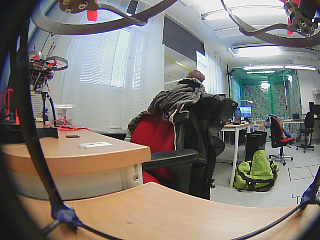
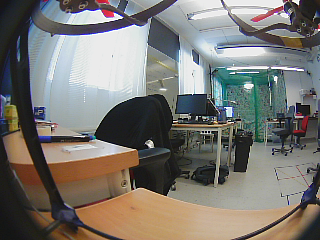
Removed black part from images

diff --git a/interface/interface_image_view/src/interface_image_view_node.cpp b/interface/interface_image_view/src/interface_image_view_node.cpp
@@ -108,6 +108,144 @@ void putMarkers(cv::Mat * image, float look_direction, float fov)
     }
 }
 
+// Source: http://answers.opencv.org/question/14188/calc-eucliadian-distance-between-two-single-point/
+double getDistance(cv::Point & p1, cv::Point & p2)
+{
+    cv::Point diff = p1 - p2;
+    return cv::sqrt(diff.x * diff.x + diff.y * diff.y);
+}
+
+int findClosestIndex(cv::Point & point, std::vector<cv::Point> & points)
+{
+    double closest_distance = -1;
+    int closest_index = -1;
+
+    for (size_t i = 0; i < points.size(); i++)
+    {
+        double distance = getDistance(point, points[i]);
+
+        if (closest_distance == -1 || distance < closest_distance)
+        {
+            closest_distance = distance;
+            closest_index = i;
+        }
+    }
+
+    return closest_index;
+}
+
+// Source: http://stackoverflow.com/questions/10632617/how-to-remove-black-part-from-the-image
+void removeBlackRightBottom(cv::Mat * image)
+{
+    cv::Mat gray_image;
+    cv::cvtColor(*image, gray_image, cv::COLOR_BGR2GRAY);
+    cv::medianBlur(gray_image, gray_image, 3);
+
+    cv::Mat thresh;
+    cv::threshold(gray_image, thresh, 1, 255, cv::THRESH_BINARY);
+
+    std::vector<std::vector<cv::Point> > contours;
+    cv::findContours(thresh, contours, cv::RETR_LIST, cv::CHAIN_APPROX_SIMPLE);
+
+    double max_area = -1;
+    std::vector<cv::Point> best_contour;
+
+    for (size_t i = 0; i < contours.size(); i++)
+    {
+        double area = cv::contourArea(contours[i]);
+        if (area > max_area)
+        {
+            max_area = area;
+            best_contour = contours[i];
+        }
+    }
+
+    std::vector<cv::Point> approx;
+    cv::approxPolyDP(best_contour, approx, 0.01 * cv::arcLength(best_contour, true), true);
+
+
+    double max_value = -1;
+    int max_index;
+    for (size_t i = 0; i < approx.size(); i++)
+    {
+        double value = approx[i].x * approx[i].y;
+
+        if (value > max_value)
+        {
+            max_value = value;
+            max_index = i;
+        }
+    }
+
+    cv::Point far = approx[max_index];
+
+    int y_max = 0, x_max = 0;
+
+    for (size_t i = 0; i < approx.size(); i++)
+    {
+        if (approx[i].x == 1 && approx[i].y > y_max)
+        {
+            y_max = approx[i].y;
+        }
+        else if (approx[i].y == 1 && approx[i].x > x_max)
+        {
+            x_max = approx[i].x;
+        }
+    }
+
+    int x = std::max(far.x, x_max);
+    int y = std::max(far.y, y_max);
+
+    *image = (*image)(cv::Rect(0, 0, x, y));
+}
+
+void removeBlack(cv::Mat * image)
+{
+    cv::Mat top_left = (*image)(cv::Rect(0, 0, image->cols / 2, image->rows / 2));
+    cv::Mat top_right = (*image)(cv::Rect(image->cols / 2, 0, image->cols / 2, image->rows / 2));
+    cv::Mat bottom_left = (*image)(cv::Rect(0, image->rows / 2, image->cols / 2, image->rows / 2));
+    cv::Mat bottom_right = (*image)(cv::Rect(image->cols / 2, image->rows / 2, image->cols / 2, image->rows / 2));
+
+    // Flip around both axis
+    cv::flip(top_left, top_left, -1);
+    removeBlackRightBottom(&top_left);
+    // Flip back
+    cv::flip(top_left, top_left, -1);
+
+    // Flip around x-axis
+    cv::flip(top_right, top_right, 0);
+    removeBlackRightBottom(&top_right);
+    // Flip back
+    cv::flip(top_right, top_right, 0);
+
+    // Flip around y-axis
+    cv::flip(bottom_left, bottom_left, 1);
+    removeBlackRightBottom(&bottom_left);
+    // Flip back
+    cv::flip(bottom_left, bottom_left, 1);
+
+    // Does not need to be flipped
+    removeBlackRightBottom(&bottom_right);
+
+    int top_rows = std::min(top_left.rows, top_right.rows);
+    int bottom_rows = std::min(bottom_left.rows, bottom_right.rows);
+
+    int left_cols = std::min(top_left.cols, bottom_left.cols);
+    int right_cols = std::min(top_right.cols, bottom_right.cols);
+
+    top_left = top_left(cv::Rect(top_left.cols - left_cols, top_left.rows - top_rows, left_cols, top_rows));
+    top_right = top_right(cv::Rect(0, top_right.rows - top_rows, right_cols, top_rows));
+    bottom_left = bottom_left(cv::Rect(bottom_left.cols - left_cols, 0, left_cols, bottom_rows));
+    bottom_right = bottom_right(cv::Rect(0, 0, right_cols, bottom_rows));
+
+    *image = (*image)(cv::Rect(0, 0, left_cols + right_cols, top_rows + bottom_rows));
+
+    top_left.copyTo((*image)(cv::Rect(0, 0, left_cols, top_rows)));
+    top_right.copyTo((*image)(cv::Rect(left_cols, 0, right_cols, top_rows)));
+    bottom_left.copyTo((*image)(cv::Rect(0, top_rows, left_cols, bottom_rows)));
+    bottom_right.copyTo((*image)(cv::Rect(left_cols, top_rows, right_cols, bottom_rows)));
+}
+
 void publish(const image_transport::Publisher & pub, const std::vector<Image *> & images, float fov, float look_direction, ros::Publisher & view_pub) {
     for (size_t i = 0; i < images.size(); i++) {
         if (images[i]->image_.data.size() == 0) {
@@ -147,6 +285,8 @@ void publish(const image_transport::Publisher & pub, const std::vector<Image *> 
             ROS_ERROR_STREAM("Could not stitch the images: " << leftClosestImage->topic_ << " and " << rightClosestImage->topic_);
             return;
         }
+
+        //removeBlack(&image);
 
         image = image(cv::Rect(leftNumPixelsRemove, 0, image.cols - leftNumPixelsRemove - rightNumPixelsRemove, image.rows));
 

diff --git a/controller/src/controller_node.cpp b/controller/src/controller_node.cpp
@@ -114,14 +114,16 @@ void controllerCallback(const sensor_msgs::Joy::ConstPtr & msg)
     control.go_direction = getDirection(ls_up_down, -ls_left_right);
     control.go_magnitude = std::min(getDistanceFromOrigo(ls_up_down, ls_left_right), 1.0f);
 
-    if (getDistanceFromOrigo(rs_up_down, rs_left_right) == 0)
+    if (getDistanceFromOrigo(rs_up_down, rs_left_right) > 0.1)
     {
-        control.look_direction = look_direction;
+        look_direction = getDirection(rs_up_down, -rs_left_right);
     }
-    else
+    else if (getDistanceFromOrigo(ls_up_down, ls_left_right) > 0.1)
     {
-        control.look_direction = getDirection(rs_up_down, -rs_left_right);
+        look_direction = getDirection(ls_up_down, -ls_left_right);
     }
+
+    control.look_direction = look_direction;
 
     control.rotate = (std::fabs(l2 - 1.0) + (r2 - 1.0)) / 2.0;
     control.lift = (x_button == 1) ? true : false;
